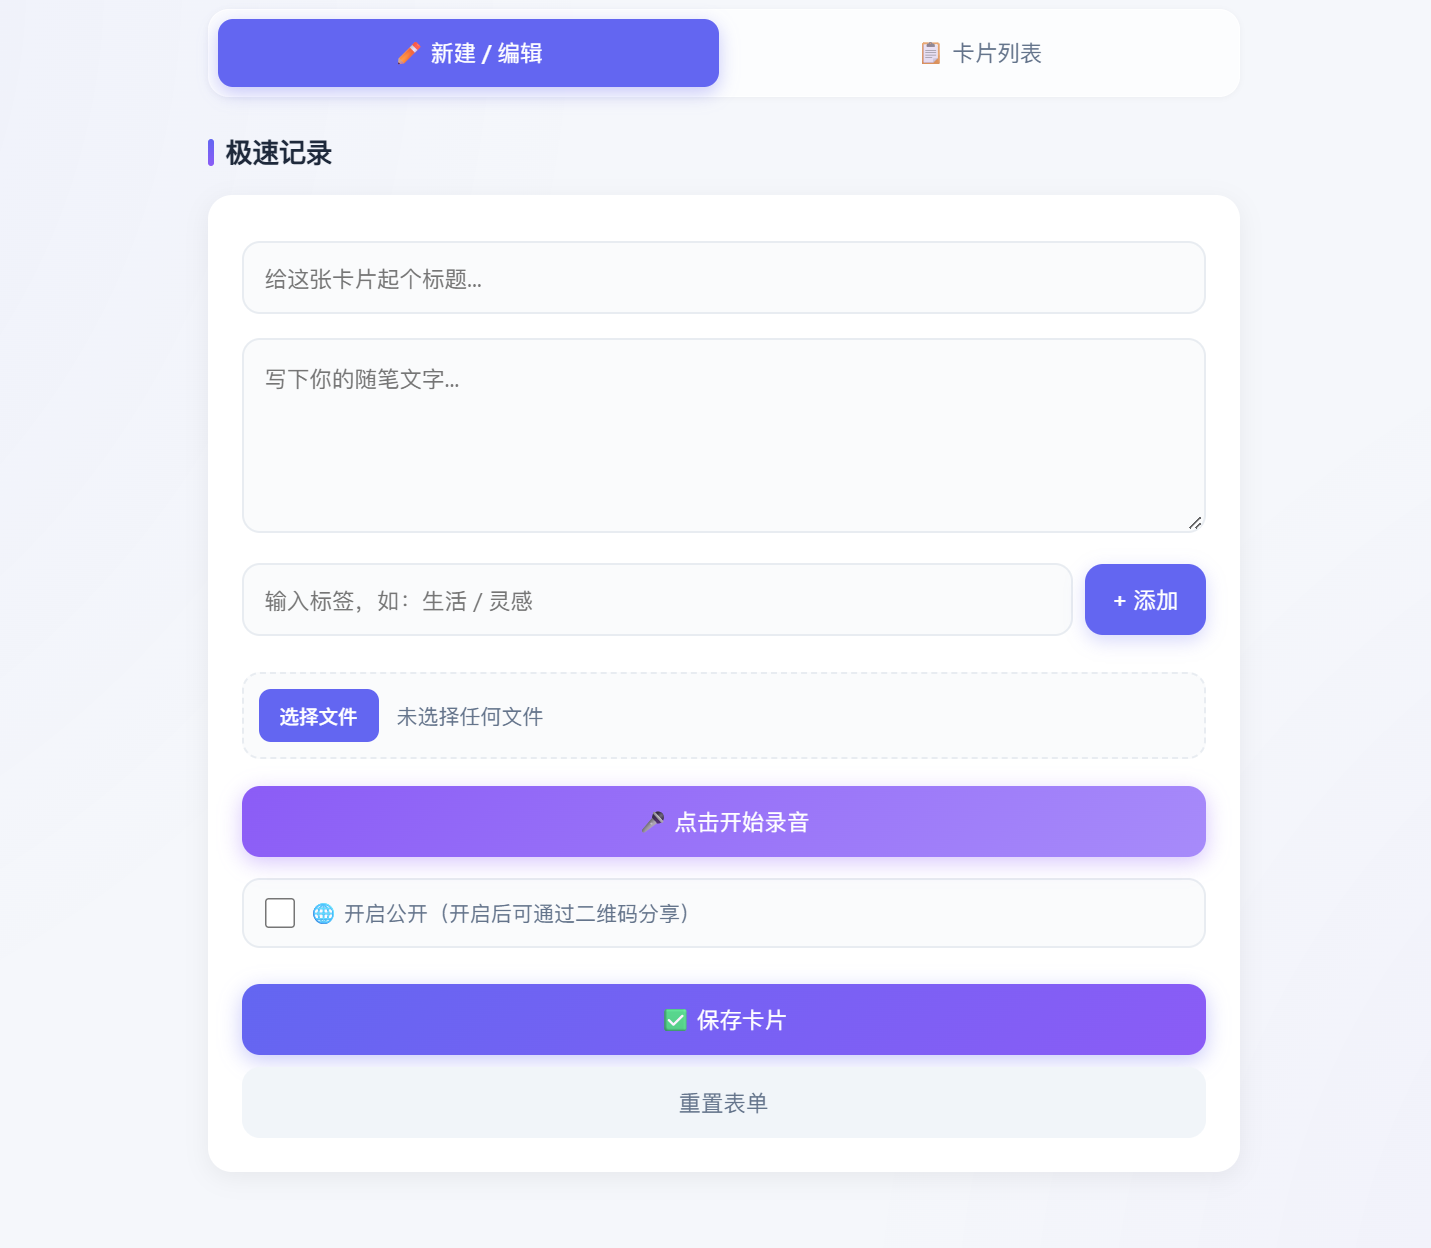
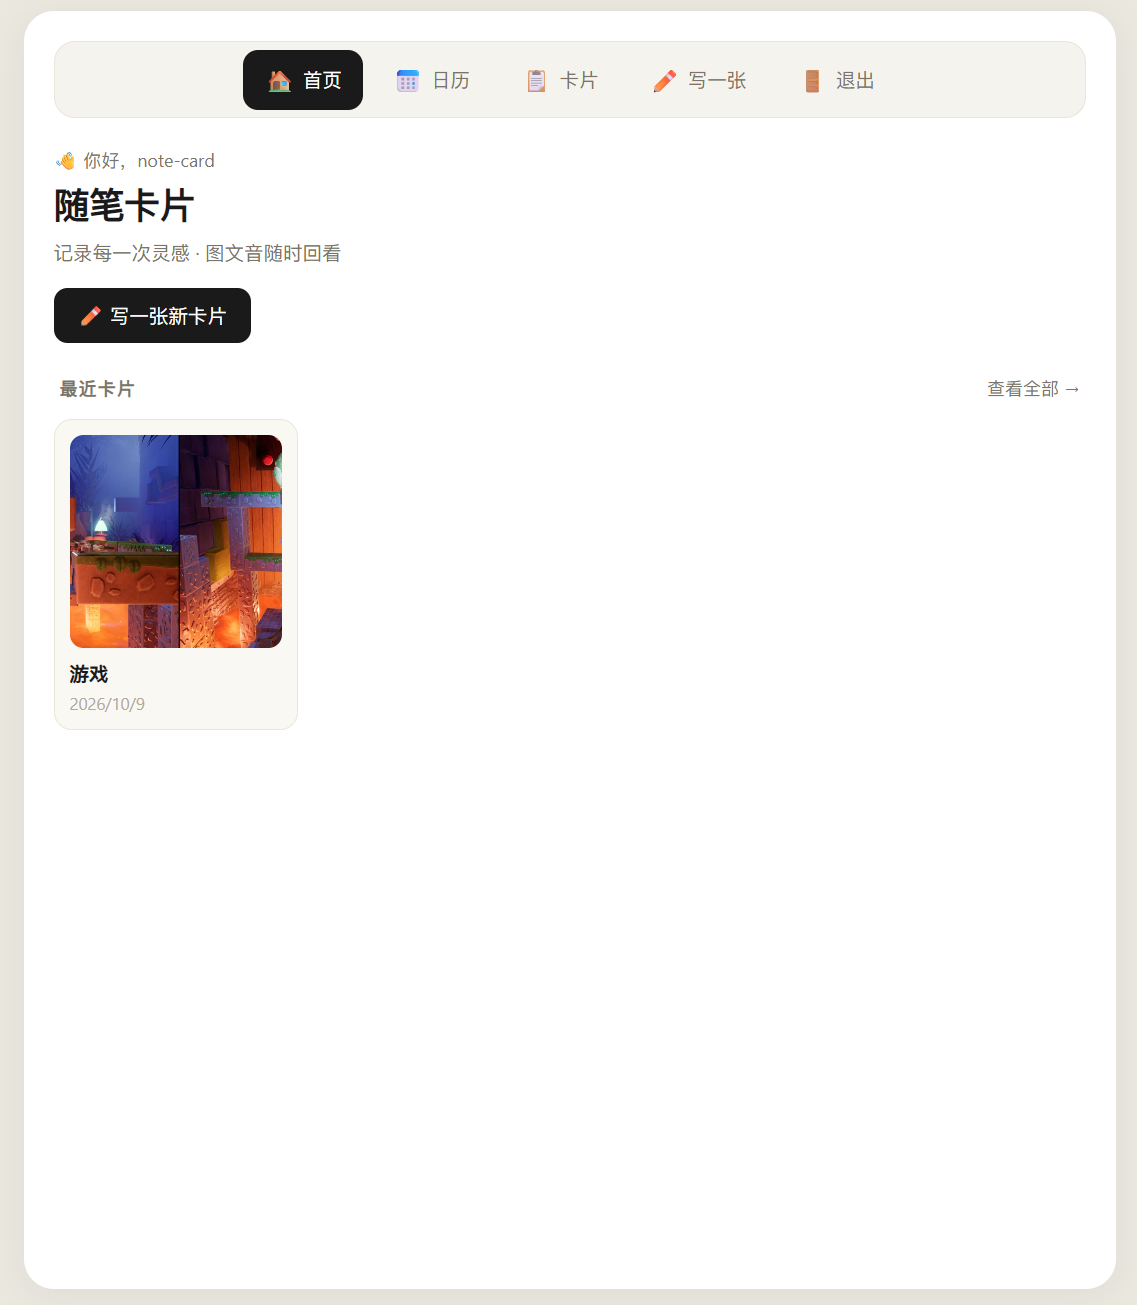
docs: 更新 README 和 2.0 版本界面截图

diff --git a/README.md b/README.md
@@ -1,6 +1,10 @@
 # 📝 图文音随笔卡片 · Note Card
 
-> 一个轻量的图文音多媒体随笔记录工具。用一张"卡片"记录一次灵感，扫码即可分享。
+> 一个轻量的图文音多媒体随笔记录工具。用一张「卡片」记录一次灵感，扫码即可分享。
+
+[![Python](https://img.shields.io/badge/Python-3.13-blue.svg)](https://www.python.org/)
+[![Flask](https://img.shields.io/badge/Flask-3.x-green.svg)](https://flask.palletsprojects.com/)
+[![License](https://img.shields.io/badge/License-MIT-yellow.svg)](LICENSE)
 
 ---
 
@@ -12,6 +16,7 @@
 - **整理**：标签分类 + 全文检索，随时找到过往内容
 - **分享**：公开卡片生成二维码，手机扫码即看，无需安装 App
 - **掌控**：代码、数据都在自己手上，不受第三方平台限制
+- **多用户**：支持多账号登录，数据互相隔离
 
 线上演示：<https://ml21.pythonanywhere.com>
 
@@ -23,26 +28,29 @@
 
 ### 多媒体记录
 - 📝 文字卡片：标题 + 正文
-- 🖼 图片上传：支持浏览器端自动压缩（体积减少约 70%）
-- 🎤 录音功能：基于 MediaRecorder API，无需第三方工具
+- 🖼 图片上传：支持浏览器端自动压缩（体积减少约 70%），单张卡片最多 9 张
+- 🎤 录音功能：基于 MediaRecorder API，浏览器直接录制
 - 👀 实时预览：图片、录音上传前即可预览
 - 🏷 标签系统：一张卡片可打多个标签
+- ✍ 纯文字 / 纯图片 / 纯语音 均可独立成卡
 
 ### 管理能力
-- 🔍 全文检索：按标题或正文搜索
+- 🔍 全文检索：按标题、正文、标签、日期、内容类型搜索
 - 🗂 标签筛选：按标签快速过滤卡片
-- 🖼 缩略图列表：卡片列表带图片缩略图
-- 🎯 详情弹窗：点击卡片查看完整内容
+- 🖼 缩略图列表：卡片列表带图片缩略图或语音波形图标
+- 🎯 详情轮播：图片 → 文字 → 语音的横向轮播查看
+- 📅 日历视图：按天查看创作记录
 - ✏ 编辑 / 删除：随时修改或移除卡片
 
 ### 分享与安全
 - 📱 二维码分享：公开卡片一键生成二维码
-- 🔒 后台密码保护：管理后台需要 HTTP Basic Auth
+- 🔐 多账号系统：基于 Flask Session 的登录认证，不同用户数据隔离
 - 🌐 公开页免登录：卡片分享页无需登录，扫码即看
-- 🔐 公开 / 私密开关：每张卡片可独立控制是否公开
+- 🔒 公开 / 私密开关：每张卡片可独立控制是否公开
 
 ### 部署与体验
 - ☁ 云端部署：无需本地开机，7×24 小时在线
+- 🔐 HTTPS：PythonAnywhere 自动配置证书
 - 📱 移动端适配：手机浏览器可直接使用
 - ⚡ 零框架前端：加载快、代码易读易改
 
@@ -50,17 +58,17 @@
 
 ## 🖼 界面预览
 
-### 管理后台
-![管理后台](docs/screenshot-admin.png)
+### 登录页
+![登录页](docs/screenshot-login.png)
+
+### 首页
+![首页](docs/screenshot-admin.png)
 
 ### 卡片列表
 ![卡片列表](docs/screenshot-list.png)
 
 ### 卡片分享页
-![卡片分享页](docs/screenshot-card.png)
-
-### 二维码弹窗
-![二维码](docs/screenshot-qr.png)
+![卡片分享页](docs/screenshot-card.jpg)
 
 ---
 
@@ -71,6 +79,7 @@
 | 前端 | 原生 HTML / CSS / JavaScript（无框架依赖） |
 | 后端 | Python 3.13 + Flask 3.x |
 | 数据库 | SQLite |
+| 认证 | Flask Session + HTTP Cookie |
 | 依赖 | Flask-CORS |
 | 部署 | PythonAnywhere |
 | 关键 API | MediaRecorder API、Canvas API、QRCode.js |
@@ -90,8 +99,13 @@ note-card/
 ├── database.db                 # SQLite 数据库（自动生成，不上传）
 ├── uploads/                    # 图片和音频文件（自动生成，不上传）
 │   └── .gitkeep
+├── docs/                       # 界面截图
+│   ├── screenshot-login.png
+│   ├── screenshot-admin.png
+│   ├── screenshot-list.png
+│   └── screenshot-card.png
 └── public/                     # 前端页面
-    ├── index.html              # 管理后台
+    ├── index.html              # 管理界面
     └── card.html               # 卡片分享页
 ```
 
@@ -129,14 +143,16 @@ source venv/bin/activate
 pip install -r requirements.txt
 ```
 
-### 4. 配置密码
+### 4. 配置账号
 
-在项目根目录创建 `config.py`，填入你自己的账号密码：
+在项目根目录创建 `config.py`，填写允许登录的账号：
 
 ```python
 # config.py
-ADMIN_USER = "admin"
-ADMIN_PASS = "你的强密码"
+USERS = {
+    "admin": "你的强密码",
+    "friend": "朋友的密码",
+}
 ```
 
 ### 5. 启动服务
@@ -145,7 +161,7 @@ ADMIN_PASS = "你的强密码"
 python app.py
 ```
 
-浏览器打开 <http://localhost:3000>，弹出登录框时输入刚才设置的账号密码即可进入管理后台。
+浏览器打开 <http://localhost:3000>，使用上面配置的账号登录即可进入管理界面。
 
 ---
 
@@ -153,15 +169,18 @@ python app.py
 
 | 方法 | 路径 | 说明 | 认证 |
 |------|------|------|------|
+| POST | `/api/login` | 用户登录 | ❌ 公开 |
+| POST | `/api/logout` | 退出登录 | ❌ 公开 |
+| GET | `/api/me` | 获取当前用户信息 | ❌ 公开 |
 | POST | `/api/note` | 创建卡片 | ✅ 需要 |
-| GET | `/api/note/list` | 获取卡片列表 | ✅ 需要 |
+| GET | `/api/note/list` | 获取卡片列表（仅自己的） | ✅ 需要 |
 | GET | `/api/note/<id>` | 获取单条卡片（公开） | ❌ 公开 |
 | GET | `/api/note/<id>?admin=1` | 获取单条卡片（含私密） | ✅ 需要 |
 | PUT | `/api/note/<id>` | 修改卡片 | ✅ 需要 |
 | DELETE | `/api/note/<id>` | 删除卡片 | ✅ 需要 |
 | GET | `/uploads/<filename>` | 访问图片 / 音频 | ❌ 公开 |
 
-认证方式：HTTP Basic Auth。
+认证方式：基于 Flask Session（Cookie）。
 
 ---
 
@@ -170,12 +189,14 @@ python app.py
 1. 注册 [PythonAnywhere](https://www.pythonanywhere.com/) 免费账户
 2. 通过 **Files** 页面上传 `app.py`、`config.py`、`public/` 文件夹
 3. 在 **Consoles → Bash** 中创建虚拟环境：
+
    ```bash
    cd ~/你的项目目录
    python3.13 -m venv venv
    source venv/bin/activate
    pip install flask flask-cors
    ```
+
 4. 在 **Web** 页面创建 Flask 应用，配置：
    - Python 版本：3.13
    - Virtualenv：`/home/你的用户名/项目目录/venv`
@@ -189,14 +210,18 @@ python app.py
 ## 🗺 Roadmap
 
 - [x] 多媒体卡片（文字 / 图片 / 录音）
+- [x] 多图上传（最多 9 张）
+- [x] 图片 Canvas 压缩
 - [x] 标签系统 + 全文检索
 - [x] 二维码分享
-- [x] 后台密码保护
-- [x] 云端部署
+- [x] 多账号登录 + 数据隔离
+- [x] 日历视图
+- [x] 首页视图 + 卡片网格
+- [x] 云端部署 + HTTPS
+- [x] 详情轮播（图 → 文 → 音）
 - [ ] 编辑时支持替换图片 / 录音
 - [ ] 卡片导出为 PDF / 图片
 - [ ] 定时自动备份数据库
-- [ ] 多用户支持
 - [ ] 绑定自定义域名
 
 ---
